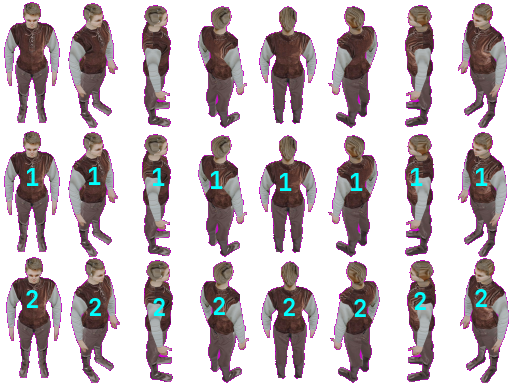
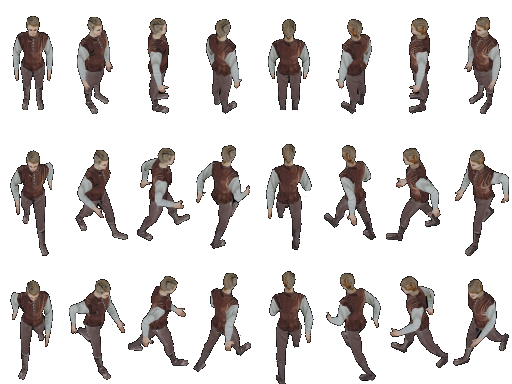
Got animations working on network

diff --git a/net.c b/net.c
@@ -391,6 +391,9 @@ static void server_send(PacketType type, ClientInfo* cli)
                     memcpy(&pkt.data[index],&server.clients[i].player_state.angle,sizeof(float)); // angle
                     index += sizeof(float);
 
+                    memcpy(&pkt.data[index],&server.clients[i].player_state.sprite_index,sizeof(uint8_t));
+                    index += sizeof(uint8_t);
+
                     num_clients++;
                 }
             }
@@ -573,6 +576,7 @@ int net_server_start()
                             cli->player_state.pos.x = players[client_id].phys.pos.x;
                             cli->player_state.pos.y = players[client_id].phys.pos.y;
                             cli->player_state.angle = players[client_id].angle;
+                            cli->player_state.sprite_index = players[client_id].sprite_index;
 
                             //printf("net player state for client id %d, pos %f %f, angle %f\n",client_id, net_player_states[client_id].pos.x, net_player_states[client_id].pos.y, net_player_states[client_id].angle);
 
@@ -910,11 +914,14 @@ void net_client_update()
 
                         Vector2f pos;
                         float angle;
+                        uint8_t sprite_index;
 
                         memcpy(&pos, &srvpkt.data[index], sizeof(Vector2f));
                         index += sizeof(Vector2f);
                         memcpy(&angle, &srvpkt.data[index],sizeof(float));
                         index += sizeof(float);
+                        memcpy(&sprite_index, &srvpkt.data[index],sizeof(uint8_t));
+                        index += sizeof(uint8_t);
 
                         Player* p = &players[client_id];
                         p->active = true;
@@ -945,6 +952,7 @@ void net_client_update()
                                         p->phys.pos.x = pos.x;
                                         p->phys.pos.y = pos.y;
                                         p->angle = angle;
+                                        p->sprite_index = sprite_index;
                                     }
                                     break;
                                 }
@@ -962,6 +970,8 @@ void net_client_update()
 
                             p->state_prior.angle = p->angle;
                             p->state_target.angle = angle;
+                            p->sprite_index = sprite_index;
+                            printf("received sprite index: %d\n",p->sprite_index);
                         }
                     }
 

diff --git a/player.c b/player.c
@@ -90,12 +90,16 @@ static void player_init(int index)
 
     // animation
     p->anim.curr_frame = 0;
-    p->anim.max_frames = 3;
+    p->anim.max_frames = 4;
     p->anim.curr_frame_time = 0.0f;
-    p->anim.max_frame_time = 0.3f;
+    p->anim.max_frame_time = 0.2f;
     p->anim.finite = false;
     p->anim.curr_loop = 0;
     p->anim.max_loops = 0;
+    p->anim.frame_sequence[0] = 0;
+    p->anim.frame_sequence[1] = 1;
+    p->anim.frame_sequence[2] = 0;
+    p->anim.frame_sequence[3] = 2;
 
     p->angle = 0.0;
     player_update_sprite_index(p);
@@ -148,7 +152,7 @@ void player_update_other(Player* p, double delta_t)
 
     p->angle = lerp(p->state_prior.angle,p->state_target.angle,t);
 
-    player_update_sprite_index(p);
+    //player_update_sprite_index(p);
     player_gun_set_position(p);
 }
 
@@ -201,11 +205,9 @@ void player_update_sprite_index(Player* p)
     }
     
     GFXSubImageData* sid = gfx_images[p->image].sub_img_data;
-    Rect* vr = &sid->visible_rects[p->sprite_index];
-    p->phys.pos.w = vr->w*p->scale;
-    p->phys.pos.h = vr->h*p->scale;
 
-    int anim_frame_offset = p->anim.curr_frame*sid->elements_per_row;
+    int anim_frame_offset = p->anim.frame_sequence[p->anim.curr_frame]*sid->elements_per_row;
+    printf("curr_frame: %d, anim_frame_offset: %d, elements per row: %d\n",p->anim.curr_frame, anim_frame_offset,sid->elements_per_row);
     assert(anim_frame_offset >= 0);
 
     /*
@@ -218,6 +220,10 @@ void player_update_sprite_index(Player* p)
 
     p->sprite_index += anim_frame_offset;
     p->sprite_index = MIN(p->sprite_index, sid->element_count);
+
+    Rect* vr = &sid->visible_rects[p->sprite_index];
+    p->phys.pos.w = vr->w*p->scale;
+    p->phys.pos.h = vr->h*p->scale;
 }
 
 void player_gun_set_position(Player* p)
@@ -314,12 +320,14 @@ void player_update(Player* p, double delta_t)
         debug_enabled = !debug_enabled;
     }
 
-
-    if(p->actions.primary_action)
+    if(role != ROLE_SERVER)
     {
-        if(window_is_cursor_enabled())
+        if(p->actions.primary_action)
         {
-            window_disable_cursor();
+            if(window_is_cursor_enabled())
+            {
+                window_disable_cursor();
+            }
         }
     }
 
@@ -342,6 +350,7 @@ void player_update(Player* p, double delta_t)
     }
     else
     {
+        printf("curr frame: %d, frame sequence num: %d\n",p->anim.curr_frame, p->anim.frame_sequence[p->anim.curr_frame]);
         gfx_anim_update(&p->anim,delta_t);
     }
 

diff --git a/core/gfx.c b/core/gfx.c
@@ -337,6 +337,10 @@ static int assign_image(GFXSubImageData* sub_image_data, _Image* image, bool lin
             glTexParameteri(GL_TEXTURE_2D, GL_TEXTURE_WRAP_T, GL_CLAMP_TO_EDGE);
 
             glBindTexture(GL_TEXTURE_2D, 0);
+
+            if(img->texture == -1)
+                img->texture = i; // @HACK
+
             return i;
         }
     }
@@ -733,8 +737,6 @@ void gfx_anim_update(GFXAnimation* anim, double delta_t)
     {
         anim->curr_frame_time -= anim->max_frame_time;
         anim->curr_frame++;
-
-        printf("curr frame : %d\n",anim->curr_frame);
 
         if(anim->curr_frame >= anim->max_frames)
         {

diff --git a/img/human_blender_output/composite.py b/img/human_blender_output/composite.py
@@ -42,8 +42,9 @@ class Compositor(QWidget):
 
         self.root = root = os.path.dirname(os.path.abspath(__file__)) + slash
 
-        self.path = self.root + "standing" + slash
-        self.path = self.root + "walk1" + slash
+        #self.path = self.root + "standing" + slash
+        #self.path = self.root + "walk1" + slash
+        self.path = self.root + "walk2" + slash
 
         self.scaled_size = QSize(64, 128)
 

diff --git a/net.h b/net.h
@@ -75,6 +75,7 @@ typedef struct
     uint16_t associated_packet_id;
     Vector2f pos;
     float angle;
+    uint8_t sprite_index;
 } __attribute__((__packed__)) NetPlayerState;
 
 extern char* server_ip_address;

diff --git a/core/gfx.h b/core/gfx.h
@@ -39,6 +39,7 @@ typedef struct
 {
     int curr_frame;
     int max_frames;
+    int frame_sequence[16];
     float curr_frame_time;
     float max_frame_time;
     bool finite;

diff --git a/player.h b/player.h
@@ -54,7 +54,7 @@ typedef struct
     bool running;
 
     int image;
-    int sprite_index;
+    uint8_t sprite_index;
     uint16_t keys;
 
     Vector2f mouse_pos;
